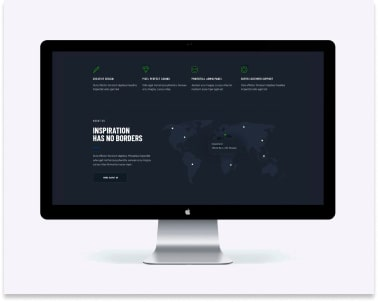
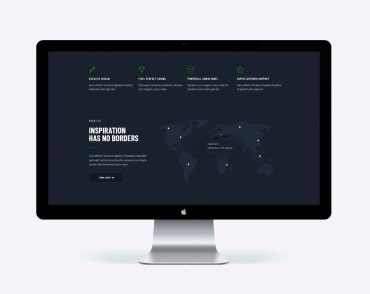
Исправляет ошибки

diff --git a/index.html b/index.html
@@ -22,7 +22,7 @@
             <div class="container header-container">
                 <nav class="nav">
                     <a href="./index.html" class="logo"
-                        ><span class="logo-text">Web</span>Studio</a
+                        >Web<span class="logo-text">Studio</span></a
                     >
                     <ul class="site-nav list">
                         <li class="site-item">
@@ -65,7 +65,7 @@
                     </button>
                 </div>
             </section>
-            <section class="advantages">
+            <section class="section">
                 <div class="container">
                     <h2 class="visually-hidden">Наши преимущества</h2>
                     <ul class="advantages-list">
@@ -102,7 +102,7 @@
                     </ul>
                 </div>
             </section>
-            <section class="about">
+            <section class="section about">
                 <div class="container">
                     <h2 class="about-title">Чем мы занимаемся</h2>
                     <ul class="about-list">
@@ -132,7 +132,7 @@
                     </ul>
                 </div>
             </section>
-            <section class="team">
+            <section class="section team">
                 <div class="container">
                     <h2 class="team-title">Наша команда</h2>
                     <ul class="team-list">
@@ -186,12 +186,12 @@
         </main>
         <footer class="footer">
             <div class="container">
-                <a href="./index.html" lang="en" class="logo" id="contacts"
-                >Web<span class="footer-logo">Studio</span></a
+                <a href="./index.html" lang="en" class="footer-logo" id="contacts"
+                >Web<span class="footer-text">Studio</span></a
             >
             <address class="address">
                 <ul class="address-list">
-                    <li>
+                    <li class="address-item">
                         <a
                             href="https://goo.gl/maps/bTS4TRT1FzqZBUrDA"
                             target="_blank"
@@ -200,12 +200,12 @@
                             >г. Киев, пр-т Леси Украинки, 26</a
                         >
                     </li>
-                    <li>
+                    <li class="address-item">
                         <a href="mailto:info@devstudio.com" class="address-link"
                             >info@devstudio.com</a
                         >
                     </li>
-                    <li>
+                    <li class="address-item">
                         <a href="tel:+380961111111" class="address-link"
                             >+38 096 111 11 11</a
                         >

diff --git a/portfolio.html b/portfolio.html
@@ -19,7 +19,7 @@
             <div class="container header-container">
                 <nav class="nav">
                     <a href="./index.html" class="logo"
-                        ><span class="logo-text">Web</span>Studio</a
+                        >Web<span class="logo-text">Studio</span></a
                     >
                     <ul class="site-nav list">
                         <li class="site-item">
@@ -52,8 +52,9 @@
             </div>
         </header>
         <main>
-            <section class="filter">
+            <section class="section">
                 <div class="container">
+                    <h1 class="visually-hidden">Портфолио</h1>
                     <ul class="filter-list">
                         <li class="filter-item">
                             <button type="button" class="filter-btn">
@@ -81,11 +82,6 @@
                             </button>
                         </li>
                     </ul>
-                </div>
-            </section>
-            <section class="portfolio">
-                <div class="container">
-                    <h1 class="visually-hidden">Портфолио</h1>
                     <ul class="portfolio-list">
                         <li class="portfolio-item">
                             <img src="./images/portfolio-1-min.jpg" alt="" />
@@ -162,12 +158,12 @@
         </main>
         <footer class="footer">
             <div class="container">
-                <a href="./index.html" lang="en" class="logo" id="contacts"
-                >Web<span class="footer-logo">Studio</span></a
+                <a href="./index.html" lang="en" class="footer-logo" id="contacts"
+                >Web<span class="footer-text">Studio</span></a
             >
             <address class="address">
                 <ul class="address-list">
-                    <li>
+                    <li class="address-item">
                         <a
                             href="https://goo.gl/maps/bTS4TRT1FzqZBUrDA"
                             target="_blank"
@@ -176,12 +172,12 @@
                             >г. Киев, пр-т Леси Украинки, 26</a
                         >
                     </li>
-                    <li>
+                    <li class="address-item">
                         <a href="mailto:info@devstudio.com" class="address-link"
                             >info@devstudio.com</a
                         >
                     </li>
-                    <li>
+                    <li class="address-item">
                         <a href="tel:+380961111111" class="address-link"
                             >+38 096 111 11 11</a
                         >

diff --git a/css/styles.css b/css/styles.css
@@ -60,6 +60,11 @@ button {
     margin: -1px;
 }
 
+.section {
+    padding-top: 94px;
+    padding-bottom: 94px;
+}
+
 .container {
     width: 1200px;
     margin-left: auto;
@@ -70,8 +75,7 @@ button {
 /* ---------------HEADER--------------- */
 
 .header {
-    padding-top: 24px;
-    padding-bottom: 24px;
+    border-bottom: 1px solid #ececec;
 }
 
 .header-container {
@@ -162,7 +166,10 @@ button {
 /* -----------HERO------------ */
 
 .hero {
-    padding-bottom: 94px;
+    /* width: 1600px; */
+
+    padding-top: 200px;
+    padding-bottom: 200px;
     text-align: center;
 
     background-color: #2f303a;
@@ -172,11 +179,8 @@ button {
     display: inline-block;
     margin-top: 0;
     margin-bottom: 30px;
-    padding-top: 200px;
-    padding-bottom: 280px;
 
     width: 696px;
-    height: 120px;
 
     font-weight: 900;
     font-size: 44px;
@@ -210,9 +214,12 @@ button {
 
 /* ----------SECTION ADVANTAGES---------- */
 
-.advantages {
-    padding-top: 94px;
-    padding-bottom: 94px;
+.advantages-item {
+    margin-right: 30px;
+}
+
+.advantages-item:last-child {
+    margin-right: 0;
 }
 
 .advantages-list {
@@ -243,7 +250,7 @@ button {
 /* -------------SECTION ABOUT-------------- */
 
 .about {
-    padding-bottom: 94px;
+    padding-top: 0;
 }
 
 .about-title {
@@ -273,9 +280,6 @@ button {
 /* -----------SECTION TEAM-------------- */
 
 .team {
-    padding-top: 94px;
-    padding-bottom: 94px;
-
     background-color: #f5f4fa;
 }
 
@@ -314,7 +318,8 @@ button {
 }
 
 .team-item-content {
-    margin-top: 30px;
+    padding-top: 30px;
+    padding-bottom: 30px;
 }
 
 .team-text {
@@ -336,6 +341,14 @@ button {
 .footer-logo {
     font-family: "Raleway", sans-serif;
     font-size: 26px;
+    line-height: calc(31 / 25);
+    letter-spacing: 0.03em;
+    color: var(--accent-color);
+}
+
+.footer-text {
+    font-family: "Raleway", sans-serif;
+    font-size: 26px;
     line-height: calc(31 / 26);
     letter-spacing: 0.03em;
     color: var(--hero-title-color);
@@ -344,6 +357,14 @@ button {
 .address {
     font-style: normal;
     margin-top: 20px;
+}
+
+.address-item {
+    margin-bottom: 9px;
+}
+
+.address-item:last-child {
+    margin-bottom: 0;
 }
 
 .address-map {
@@ -371,13 +392,11 @@ button {
 
 /* ---------PORTFOLIO---------- */
 
-.filter {
-    margin-bottom: 34px;
-}
-
 .filter-list {
     display: flex;
     justify-content: center;
+
+    margin-bottom: 50px;
 }
 
 .filter-item:not(:last-child) {
@@ -432,7 +451,7 @@ button {
 }
 
 .portfolio-content {
-    margin-top: 20px;
+    padding: 20px 24px;
 }
 
 .portfolio-title {
